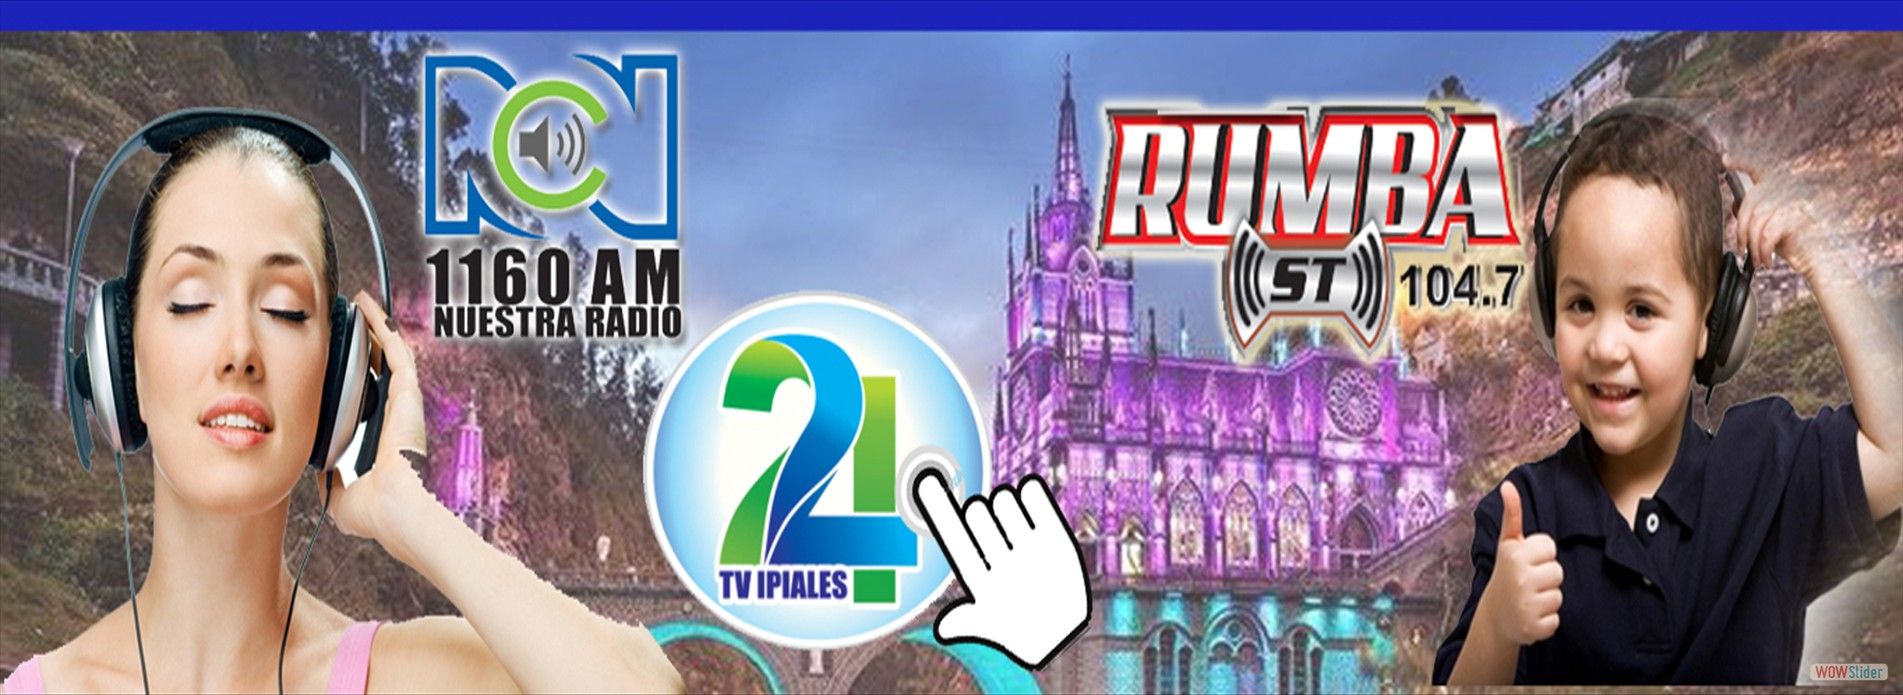
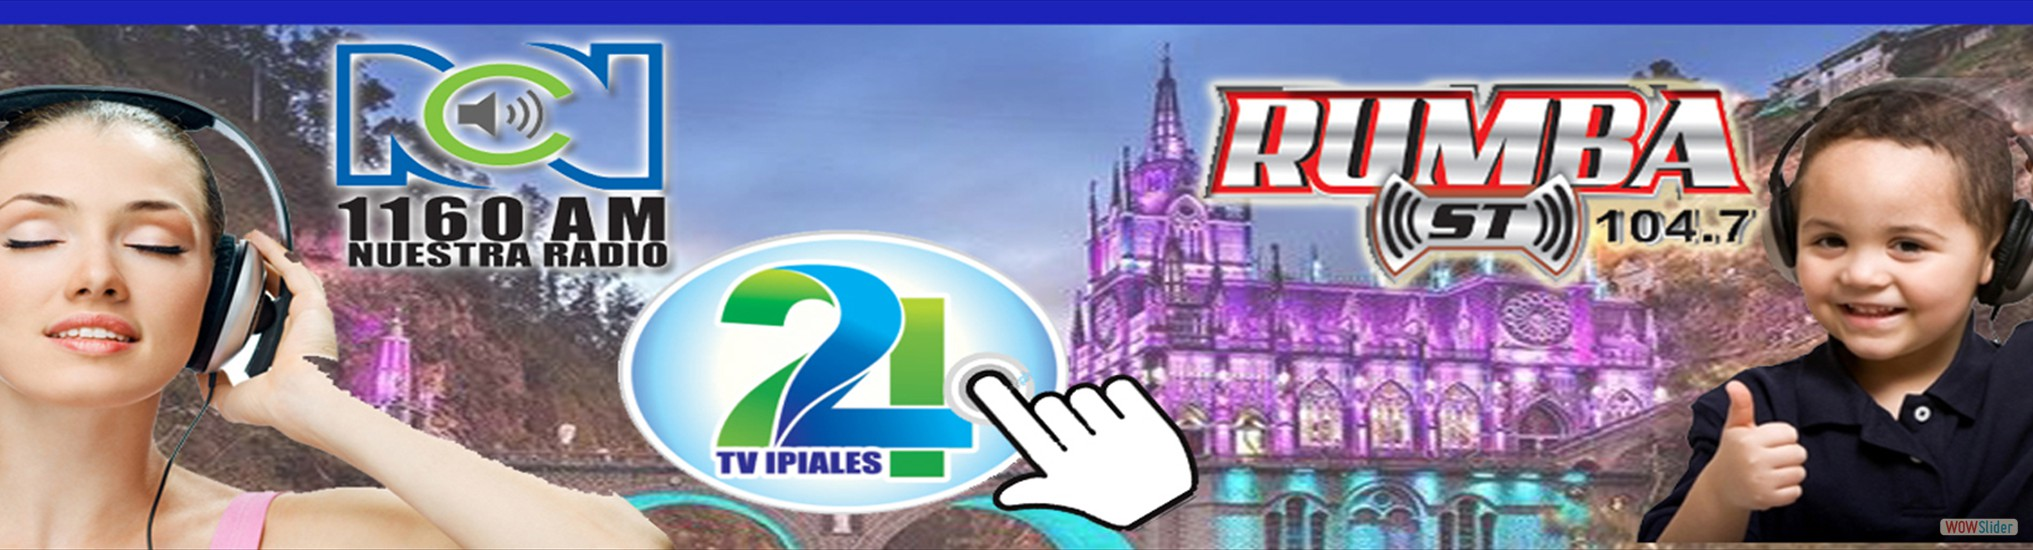
CARRUCEL

diff --git a/engine1/script.js b/engine1/script.js
@@ -8,6 +8,16 @@
 // Obfuscated by Javascript Obfuscator
 // http://javascript-source.com
 //***********************************************
+jQuery.extend(jQuery.easing,{easeInOutQuart:function(e,f,a,h,g){if((f/=g/2)<1){return h/2*f*f*f*f+a}return -h/2*((f-=2)*f*f*f-2)+a}});function ws_turn(d,a,b){var f=jQuery;var h=f(this);var c=f("li",b);var e=f(".ws_list",b);var g=f("<div>").addClass("ws_effect ws_turn").css({position:"absolute",top:0,left:0,width:"100%",height:"100%",overflow:"hidden",perspective:500}).appendTo(b);this.go=function(q,l){var s=b.height();var j=b.width();var k={left:["0% 50%",{rotateY:90,translate:[0,0,0.1]},{left:-j}],right:["100% 50%",{rotateY:-90,translate:[0,0,0.1]},{left:j}],up:["50% 0%",{rotateX:-90,translate:[0,0,0.1]},{top:-s}],down:["50% 100%",{rotateX:90,translate:[0,0,0.1]},{top:s}]}[d.direction||["left","right","down","up"][Math.floor(Math.random()*4)]];var i=f("<div>").css({position:"absolute",left:0,top:0,width:"100%",height:"100%",overflow:"hidden",transformOrigin:k[0],transformStyle:"preserve-3d",outline:"1px solid transparent",zIndex:5}).append(f(a.get(q)).clone()),r=f("<div>").css({position:"absolute",left:0,top:0,width:"100%",height:"100%",overflow:"hidden",background:"#000",zIndex:4}).append(f(a.get(l)).clone());g.css({perspectiveOrigin:k[0]});if(d.responsive<3){i.find("img").css("width","100%");r.find("img").css("width","100%")}r.appendTo(g);i.appendTo(g);e.stop(true,true).hide().css({left:-q+"00%"});var p=k[2];var o={top:0,left:0};var n={opacity:1};var m={opacity:0.2};if(d.support.transform){p=k[1];o={rotateX:0,rotateY:0,translate:[0,0,0]}}wowAnimate(i,p,o,d.duration,"easeInOutQuart",function(){h.trigger("effectEnd");i.remove();r.remove()});wowAnimate(r.find("img"),n,m,d.duration,"easeInOutQuart")}};// -----------------------------------------------------------------------------------
+// http://wowslider.com/
+// JavaScript Wow Slider is a free software that helps you easily generate delicious 
+// slideshows with gorgeous transition effects, in a few clicks without writing a single line of code.
+// Generated by WOW Slider 8.8
+//
+//***********************************************
+// Obfuscated by Javascript Obfuscator
+// http://javascript-source.com
+//***********************************************
 function ws_parallax(k,g,a){var c=jQuery;var f=c(this);var d=a.find(".ws_list");var b=k.parallax||0.25;var e=c("<div>").css({position:"absolute",top:0,left:0,width:"100%",height:"100%",overflow:"hidden"}).addClass("ws_effect ws_parallax").appendTo(a);function j(l){return Math.round(l*1000)/1000}var i=c("<div>").css({position:"absolute",left:0,top:0,overflow:"hidden",width:"100%",height:"100%",transform:"translate3d(0,0,0)"}).appendTo(e);var h=i.clone().appendTo(e);this.go=function(l,r,p){var s=c(g.get(r));s={width:s.width(),height:s.height(),marginTop:s.css("marginTop"),marginLeft:s.css("marginLeft")};p=p?1:-1;var n=c(g.get(r)).clone().css(s).appendTo(i);var o=c(g.get(l)).clone().css(s).appendTo(h);var m=a.width()||k.width;var q=a.height()||k.height;d.hide();wowAnimate(function(v){v=c.easing.swing(v);var x=j(p*v*m),u=j(p*(-m+v*m)),t=j(-p*m*b*v),w=j(p*m*b*(1-v));if(k.support.transform){i.css("transform","translate3d("+x+"px,0,0)");n.css("transform","translate3d("+t+"px,0,0)");h.css("transform","translate3d("+u+"px,0,0)");o.css("transform","translate3d("+w+"px,0,0)")}else{i.css("left",x);n.css("margin-left",t);h.css("left",u);o.css("margin-left",w)}},0,1,k.duration,function(){e.hide();n.remove();o.remove();f.trigger("effectEnd")})}};// -----------------------------------------------------------------------------------
 // http://wowslider.com/
 // JavaScript Wow Slider is a free software that helps you easily generate delicious 
@@ -18,7 +28,7 @@ function ws_parallax(k,g,a){var c=jQuery;var f=c(this);var d=a.find(".ws_list");
 // Obfuscated by Javascript Obfuscator
 // http://javascript-source.com
 //***********************************************
-function ws_slices(k,h,i){var b=jQuery;var f=b(this);function g(q,p,o,m,l,n){if(k.support.transform){if(p.top){p.translate=[0,p.top||0,0]}if(o.top){o.translate=[0,o.top||0,0]}delete p.top;delete o.top}wowAnimate(q,p,o,m,l,"swing",n)}var e=function(r,x){var q=b.extend({},{effect:"random",slices:15,animSpeed:500,pauseTime:3000,startSlide:0,container:null,onEffectEnd:0},x);var t={currentSlide:0,currentImage:"",totalSlides:0,randAnim:"",stop:false};var o=b(r);o.data("wow:vars",t);if(!/absolute|relative/.test(o.css("position"))){o.css("position","relative")}var m=x.container||o;var p=o.children();t.totalSlides=p.length;if(q.startSlide>0){if(q.startSlide>=t.totalSlides){q.startSlide=t.totalSlides-1}t.currentSlide=q.startSlide}if(b(p[t.currentSlide]).is("img")){t.currentImage=b(p[t.currentSlide])}else{t.currentImage=b(p[t.currentSlide]).find("img:first")}if(b(p[t.currentSlide]).is("a")){b(p[t.currentSlide]).css("display","block")}for(var s=0;s<q.slices;s++){var w=Math.round(m.width()/q.slices);var v=b('<div class="wow-slice"></div>').css({left:w*s+"px",overflow:"hidden",width:((s==q.slices-1)?(m.width()-(w*s)):w)+"px",position:"absolute"}).appendTo(m);b("<img>").css({position:"absolute",left:0,top:0,transform:"translate3d(0,0,0)"}).appendTo(v)}var n=0;this.sliderRun=function(y,z){if(t.busy){return false}q.effect=z||q.effect;t.currentSlide=y-1;u(o,p,q,false);return true};var l=function(){if(q.onEffectEnd){q.onEffectEnd(t.currentSlide)}m.hide();b(".wow-slice",m).css({transition:"",transform:""});t.busy=0};var u=function(y,z,C,E){var F=y.data("wow:vars");if((!F||F.stop)&&!E){return false}F.busy=1;F.currentSlide++;if(F.currentSlide==F.totalSlides){F.currentSlide=0}if(F.currentSlide<0){F.currentSlide=(F.totalSlides-1)}F.currentImage=b(z[F.currentSlide]);if(!F.currentImage.is("img")){F.currentImage=F.currentImage.find("img:first")}var A=b(h[F.currentSlide]);A={width:A.width(),heiht:A.height(),marginTop:A.css("marginTop"),marginLeft:A.css("marginLeft")};b(".wow-slice",m).each(function(J){var L=b(this),I=b("img",L);var K=Math.round(m.width()/C.slices);I.width(m.width());I.attr("src",F.currentImage.attr("src"));I.css({left:-K*J+"px"}).css(A);L.css({height:"100%",opacity:0,left:K*J,width:((J==C.slices-1)?(m.width()-(K*J)):K)})});m.show();if(C.effect=="random"){var G=new Array("sliceDownRight","sliceDownLeft","sliceUpRight","sliceUpLeft","sliceUpDownRight","sliceUpDownLeft","fold","fade");F.randAnim=G[Math.floor(Math.random()*(G.length+1))];if(F.randAnim==undefined){F.randAnim="fade"}}if(C.effect.indexOf(",")!=-1){var G=C.effect.split(",");F.randAnim=b.trim(G[Math.floor(Math.random()*G.length)])}if(C.effect=="sliceDown"||C.effect=="sliceDownRight"||F.randAnim=="sliceDownRight"||C.effect=="sliceDownLeft"||F.randAnim=="sliceDownLeft"){var B=0;var H=b(".wow-slice",m);if(C.effect=="sliceDownLeft"||F.randAnim=="sliceDownLeft"){H=H._reverse()}H.each(function(I){g(b(this),{top:"-100%",opacity:0},{top:"0%",opacity:1},C.animSpeed,100+B,(I==C.slices-1)?l:0);B+=50})}else{if(C.effect=="sliceUp"||C.effect=="sliceUpRight"||F.randAnim=="sliceUpRight"||C.effect=="sliceUpLeft"||F.randAnim=="sliceUpLeft"){var B=0;var H=b(".wow-slice",m);if(C.effect=="sliceUpLeft"||F.randAnim=="sliceUpLeft"){H=H._reverse()}H.each(function(I){g(b(this),{top:"100%",opacity:0},{top:"0%",opacity:1},C.animSpeed,100+B,(I==C.slices-1)?l:0);B+=50})}else{if(C.effect=="sliceUpDown"||C.effect=="sliceUpDownRight"||F.randAnim=="sliceUpDownRight"||C.effect=="sliceUpDownLeft"||F.randAnim=="sliceUpDownLeft"){var B=0;var H=b(".wow-slice",m);if(C.effect=="sliceUpDownLeft"||F.randAnim=="sliceUpDownLeft"){H=H._reverse()}H.each(function(I){g(b(this),{top:((I%2)?"-":"")+"100%",opacity:0},{top:"0%",opacity:1},C.animSpeed,100+B,(I==C.slices-1)?l:0);B+=50})}else{if(C.effect=="fold"||F.randAnim=="fold"){var B=0;var H=b(".wow-slice",m);var D=H.width();H.each(function(I){g(b(this),{width:0,opacity:0},{width:D,opacity:1},C.animSpeed,100+B,(I==C.slices-1)?l:0);B+=50})}else{if(C.effect=="fade"||F.randAnim=="fade"){var H=b(".wow-slice",m);b(".wow-slice",m).each(function(I){b(this).css("height","100%");b(this).animate({opacity:"1.0"},(C.animSpeed*2),(I==C.slices-1)?l:0)})}}}}}}};b.fn._reverse=[].reverse;var a=b("li",i);var c=b("ul",i);var d=b("<div>").addClass("ws_effect ws_slices").css({left:0,top:0,"z-index":8,overflow:"hidden",width:"100%",height:"100%",position:"absolute"}).appendTo(i);var j=new e(c,{keyboardNav:false,caption:0,effect:"sliceDownRight,sliceDownLeft,sliceUpRight,sliceUpLeft,sliceUpDownRight,sliceUpDownLeft,sliceUpDownRight,sliceUpDownLeft,fold,fold,fold",animSpeed:k.duration,startSlide:k.startSlide,container:d,onEffectEnd:function(l){f.trigger("effectEnd")}});this.go=function(m,l){var n=j.sliderRun(m);if(k.fadeOut){c.fadeOut(k.duration)}}};// -----------------------------------------------------------------------------------
+function ws_blur(r,p,c){var h=jQuery;var o=h(this);var n=h("<div>").addClass("ws_effect ws_blur").css({position:"absolute",overflow:"hidden",top:0,left:0,width:"100%",height:"100%"}).appendTo(c);var b=!r.noCanvas&&!window.opera&&!!document.createElement("canvas").getContext;if(b){try{document.createElement("canvas").getContext("2d").getImageData(0,0,1,1)}catch(m){b=0}}var d;function k(s,e,t){wowAnimate(s.css({visibility:"visible"}),{opacity:0},{opacity:1},e,t)}function i(s,e,t){wowAnimate(s,{opacity:1},{opacity:0},e,t)}var l;this.go=function(e,s){if(l){return -1}l=1;var w=h(p.get(s)),u=h(p.get(e)),x={width:w.width(),height:w.height(),marginTop:w.css("marginTop"),marginLeft:w.css("marginLeft")};var v;if(b){if(!d){d='<canvas width="'+x.width+'" height="'+x.height+'"/>';d=h(d+d).css({"z-index":8,position:"absolute",left:0,top:0,visibility:"hidden"}).appendTo(n)}d.css(x).attr({width:x.width,height:x.height});v=g(w,x,30,d.get(0))}if(b&&v){var t=g(u,x,30,d.get(1));k(v,r.duration/3,function(){c.find(".ws_list").css({visibility:"hidden"});i(v,r.duration/6);k(t,r.duration/6,function(){v.css({visibility:"hidden"});c.find(".ws_list").css({visibility:"visible"});o.trigger("effectEnd",{delay:r.duration/2});i(t,r.duration/2,function(){l=0})})})}else{b=0;v=g(w,x,8);v.fadeIn(r.duration/3,"linear",function(){o.trigger("effectEnd",{delay:r.duration/3});v.fadeOut(r.duration/3,"linear",function(){v.remove();l=0})})}};function g(z,v,w,s){var C=(parseInt(z.parent().css("z-index"))||0)+1;if(b){var F=s.getContext("2d");F.drawImage(z.get(0),0,0,v.width,v.height);if(!j(F,0,0,s.width,s.height,w)){return 0}return h(s)}var G=h("<div></div>").css({position:"absolute","z-index":C,left:0,top:0,display:"none"}).css(v).appendTo(n);var E=(Math.sqrt(5)+1)/2;var t=1-E/2;for(var u=0;t*u<w;u++){var A=Math.PI*E*u;var e=(t*u+1);var D=e*Math.cos(A);var B=e*Math.sin(A);h(document.createElement("img")).attr("src",z.attr("src")).css({opacity:1/(u/1.8+1),position:"absolute","z-index":C,left:Math.round(D)+"px",top:Math.round(B)+"px",width:"100%",height:"100%"}).appendTo(G)}return G}var q=[512,512,456,512,328,456,335,512,405,328,271,456,388,335,292,512,454,405,364,328,298,271,496,456,420,388,360,335,312,292,273,512,482,454,428,405,383,364,345,328,312,298,284,271,259,496,475,456,437,420,404,388,374,360,347,335,323,312,302,292,282,273,265,512,497,482,468,454,441,428,417,405,394,383,373,364,354,345,337,328,320,312,305,298,291,284,278,271,265,259,507,496,485,475,465,456,446,437,428,420,412,404,396,388,381,374,367,360,354,347,341,335,329,323,318,312,307,302,297,292,287,282,278,273,269,265,261,512,505,497,489,482,475,468,461,454,447,441,435,428,422,417,411,405,399,394,389,383,378,373,368,364,359,354,350,345,341,337,332,328,324,320,316,312,309,305,301,298,294,291,287,284,281,278,274,271,268,265,262,259,257,507,501,496,491,485,480,475,470,465,460,456,451,446,442,437,433,428,424,420,416,412,408,404,400,396,392,388,385,381,377,374,370,367,363,360,357,354,350,347,344,341,338,335,332,329,326,323,320,318,315,312,310,307,304,302,299,297,294,292,289,287,285,282,280,278,275,273,271,269,267,265,263,261,259];var a=[9,11,12,13,13,14,14,15,15,15,15,16,16,16,16,17,17,17,17,17,17,17,18,18,18,18,18,18,18,18,18,19,19,19,19,19,19,19,19,19,19,19,19,19,19,20,20,20,20,20,20,20,20,20,20,20,20,20,20,20,20,20,20,21,21,21,21,21,21,21,21,21,21,21,21,21,21,21,21,21,21,21,21,21,21,21,21,21,21,21,22,22,22,22,22,22,22,22,22,22,22,22,22,22,22,22,22,22,22,22,22,22,22,22,22,22,22,22,22,22,22,22,22,22,22,22,22,23,23,23,23,23,23,23,23,23,23,23,23,23,23,23,23,23,23,23,23,23,23,23,23,23,23,23,23,23,23,23,23,23,23,23,23,23,23,23,23,23,23,23,23,23,23,23,23,23,23,23,23,23,23,24,24,24,24,24,24,24,24,24,24,24,24,24,24,24,24,24,24,24,24,24,24,24,24,24,24,24,24,24,24,24,24,24,24,24,24,24,24,24,24,24,24,24,24,24,24,24,24,24,24,24,24,24,24,24,24,24,24,24,24,24,24,24,24,24,24,24,24,24,24,24,24,24,24];function j(aj,R,P,s,t,aa){if(isNaN(aa)||aa<1){return}aa|=0;var ae;try{ae=aj.getImageData(R,P,s,t)}catch(ai){console.log("error:unable to access image data: "+ai);return false}var z=ae.data;var Y,X,ag,ad,G,J,D,v,w,O,E,Q,M,U,Z,H,C,I,K,T;var ah=aa+aa+1;var V=s<<2;var F=s-1;var ac=t-1;var B=aa+1;var ab=B*(B+1)/2;var S=new f();var N=S;for(ag=1;ag<ah;ag++){N=N.next=new f();if(ag==B){var A=N}}N.next=S;var af=null;var W=null;D=J=0;var L=q[aa];var u=a[aa];for(X=0;X<t;X++){U=Z=H=v=w=O=0;E=B*(C=z[J]);Q=B*(I=z[J+1]);M=B*(K=z[J+2]);v+=ab*C;w+=ab*I;O+=ab*K;N=S;for(ag=0;ag<B;ag++){N.r=C;N.g=I;N.b=K;N=N.next}for(ag=1;ag<B;ag++){ad=J+((F<ag?F:ag)<<2);v+=(N.r=(C=z[ad]))*(T=B-ag);w+=(N.g=(I=z[ad+1]))*T;O+=(N.b=(K=z[ad+2]))*T;U+=C;Z+=I;H+=K;N=N.next}af=S;W=A;for(Y=0;Y<s;Y++){z[J]=(v*L)>>u;z[J+1]=(w*L)>>u;z[J+2]=(O*L)>>u;v-=E;w-=Q;O-=M;E-=af.r;Q-=af.g;M-=af.b;ad=(D+((ad=Y+aa+1)<F?ad:F))<<2;U+=(af.r=z[ad]);Z+=(af.g=z[ad+1]);H+=(af.b=z[ad+2]);v+=U;w+=Z;O+=H;af=af.next;E+=(C=W.r);Q+=(I=W.g);M+=(K=W.b);U-=C;Z-=I;H-=K;W=W.next;J+=4}D+=s}for(Y=0;Y<s;Y++){Z=H=U=w=O=v=0;J=Y<<2;E=B*(C=z[J]);Q=B*(I=z[J+1]);M=B*(K=z[J+2]);v+=ab*C;w+=ab*I;O+=ab*K;N=S;for(ag=0;ag<B;ag++){N.r=C;N.g=I;N.b=K;N=N.next}G=s;for(ag=1;ag<=aa;ag++){J=(G+Y)<<2;v+=(N.r=(C=z[J]))*(T=B-ag);w+=(N.g=(I=z[J+1]))*T;O+=(N.b=(K=z[J+2]))*T;U+=C;Z+=I;H+=K;N=N.next;if(ag<ac){G+=s}}J=Y;af=S;W=A;for(X=0;X<t;X++){ad=J<<2;z[ad]=(v*L)>>u;z[ad+1]=(w*L)>>u;z[ad+2]=(O*L)>>u;v-=E;w-=Q;O-=M;E-=af.r;Q-=af.g;M-=af.b;ad=(Y+(((ad=X+B)<ac?ad:ac)*s))<<2;v+=(U+=(af.r=z[ad]));w+=(Z+=(af.g=z[ad+1]));O+=(H+=(af.b=z[ad+2]));af=af.next;E+=(C=W.r);Q+=(I=W.g);M+=(K=W.b);U-=C;Z-=I;H-=K;W=W.next;J+=s}}aj.putImageData(ae,R,P);return true}function f(){this.r=0;this.g=0;this.b=0;this.a=0;this.next=null}};// -----------------------------------------------------------------------------------
 // http://wowslider.com/
 // JavaScript Wow Slider is a free software that helps you easily generate delicious 
 // slideshows with gorgeous transition effects, in a few clicks without writing a single line of code.
@@ -28,14 +38,4 @@ function ws_slices(k,h,i){var b=jQuery;var f=b(this);function g(q,p,o,m,l,n){if(
 // Obfuscated by Javascript Obfuscator
 // http://javascript-source.com
 //***********************************************
-function ws_fly(c,a,b){var e=jQuery;var f=e(this);var h={position:"absolute",left:0,top:0,width:"100%",height:"100%",transform:"translate3d(0,0,0)"};var d=b.find(".ws_list");var g=e("<div>").addClass("ws_effect ws_fly").css(h).css({overflow:"visible"}).appendTo(b);this.go=function(p,m,l){if(l==undefined){l=!!c.revers}else{l=!l}var k=-(c.distance||g.width()/4),n=Math.min(-k,Math.max(0,e(window).width()-g.offset().left-g.width())),i=(l?n:k),q=(l?k:n);var j=e(a.get(m));j={width:j.width(),height:j.height()};var r=e("<div>").css(h).css({"z-index":1,overflow:"hidden"}).html(e(a.get(m)).clone().css(j)).appendTo(g);var o=e("<div>").css(h).css({"z-index":3,overflow:"hidden"}).html(e(a.get(p)).clone().css(j)).appendTo(g).show();wowAnimate(o,{opacity:0},{opacity:1},c.duration);wowAnimate(o,{left:i},{left:0},2*c.duration/3);d.hide();wowAnimate(r,{left:0,opacity:1},{left:q,opacity:0},2*c.duration/3,c.duration/3,function(){r.remove();f.trigger("effectEnd");o.remove()})}};// -----------------------------------------------------------------------------------
-// http://wowslider.com/
-// JavaScript Wow Slider is a free software that helps you easily generate delicious 
-// slideshows with gorgeous transition effects, in a few clicks without writing a single line of code.
-// Generated by WOW Slider 8.8
-//
-//***********************************************
-// Obfuscated by Javascript Obfuscator
-// http://javascript-source.com
-//***********************************************
-jQuery("#wowslider-container1").wowSlider({effect:"parallax,slices,fly",prev:"",next:"",duration:20*100,delay:5*100,width:1903,height:695,autoPlay:true,autoPlayVideo:false,playPause:true,stopOnHover:false,loop:false,bullets:1,caption:true,captionEffect:"parallax",controls:true,controlsThumb:false,responsive:1,fullScreen:false,gestures:2,onBeforeStep:0,images:0});
+jQuery("#wowslider-container1").wowSlider({effect:"turn,parallax,blur",prev:"",next:"",duration:20*100,delay:20*100,width:2033,height:550,autoPlay:true,autoPlayVideo:false,playPause:true,stopOnHover:false,loop:false,bullets:1,caption:true,captionEffect:"parallax",controls:true,controlsThumb:false,responsive:1,fullScreen:false,gestures:2,onBeforeStep:0,images:0});

diff --git a/engine1/style.css b/engine1/style.css
@@ -21,8 +21,8 @@
 	zoom: 1; 
 	position: relative;
 	width: 100%;
-	max-width: 1903px;
-	max-height:695px;
+	max-width: 2033px;
+	max-height:550px;
 	margin:0px auto 0px;
 	z-index:90;
 	text-align:left; /* reset align=center */
@@ -34,7 +34,7 @@
 	-moz-box-sizing: content-box;
 	box-sizing: content-box; 
 }
-* html #wowslider-container1{ width:1903px }
+* html #wowslider-container1{ width:2033px }
 #wowslider-container1 .ws_images ul{
 	position:relative;
 	width: 10000%; 
@@ -64,8 +64,8 @@
 	left:0;
 	top:0;
 	height:100%;
-	max-height:695px;
-	max-width: 1903px;
+	max-height:550px;
+	max-width: 2033px;
 	vertical-align: top;
 	border:none;
 	overflow: hidden;
@@ -73,7 +73,7 @@
 #wowslider-container1 .ws_images ul a{
 	width:100%;
 	height:100%;
-	max-height:695px;
+	max-height:550px;
 	display:block;
 	color:transparent;
 }
@@ -89,7 +89,7 @@
 	margin:0;
 }
 #wowslider-container1 .ws_images > div > img {
-	max-height:695px;
+	max-height:550px;
 }
 
 #wowslider-container1 .ws_images iframe {
@@ -395,20 +395,20 @@
 	text-transform: uppercase;	
 	font-size: 2em;
 }#wowslider-container1 .ws_images > ul{
-	animation: wsBasic 7.5s infinite;
-	-moz-animation: wsBasic 7.5s infinite;
-	-webkit-animation: wsBasic 7.5s infinite;
+	animation: wsBasic 12s infinite;
+	-moz-animation: wsBasic 12s infinite;
+	-webkit-animation: wsBasic 12s infinite;
 }
-@keyframes wsBasic{0%{left:-0%} 6.67%{left:-0%} 33.33%{left:-100%} 40%{left:-100%} 66.67%{left:-200%} 73.33%{left:-200%} }
-@-moz-keyframes wsBasic{0%{left:-0%} 6.67%{left:-0%} 33.33%{left:-100%} 40%{left:-100%} 66.67%{left:-200%} 73.33%{left:-200%} }
-@-webkit-keyframes wsBasic{0%{left:-0%} 6.67%{left:-0%} 33.33%{left:-100%} 40%{left:-100%} 66.67%{left:-200%} 73.33%{left:-200%} }
+@keyframes wsBasic{0%{left:-0%} 16.67%{left:-0%} 33.33%{left:-100%} 50%{left:-100%} 66.67%{left:-200%} 83.33%{left:-200%} }
+@-moz-keyframes wsBasic{0%{left:-0%} 16.67%{left:-0%} 33.33%{left:-100%} 50%{left:-100%} 66.67%{left:-200%} 83.33%{left:-200%} }
+@-webkit-keyframes wsBasic{0%{left:-0%} 16.67%{left:-0%} 33.33%{left:-100%} 50%{left:-100%} 66.67%{left:-200%} 83.33%{left:-200%} }
 
 #wowslider-container1 .ws_bullets  a img{
 	position:absolute;
 	display:block;
 	text-indent:0;
 	bottom:15px;
-	left:-66px;
+	left:-89px;
 	visibility:hidden;
 	max-width:none;
 }
@@ -425,7 +425,7 @@
 	left:0;
 	overflow:hidden;
 	position:relative;
-	width:131px;
+	width:177px;
 }
 #wowslider-container1  .ws_bullets .ws_bulframe{
 	position:absolute;

diff --git a/css/style.css b/css/style.css
@@ -35,7 +35,7 @@ h1, h2, h3, h4,h5{
 }
 #imgBanner{
  	width: 100% !important;
-     height:73vh  !important;
+     height:70vh  !important;
     border-radius: 0 !important;
 }
 .imgNovedad{
@@ -171,7 +171,7 @@ body{
     }
     #imgBanner{
         width: 100% !important;
-        height: auto; 
+        height: auto  !important; 
     }
     .colimgNavDer{
         display: none;

diff --git a/index.php b/index.php
@@ -88,17 +88,17 @@
     <!-- Start WOWSlider.com BODY section --> <!-- add to the <body> of your page -->
     <header id="home" class=" slide">
 
-<<div id="wowslider-container1">
+<div id="wowslider-container1">
 <div class="ws_images"><ul>
     <li><img src="data1/images/lajitas.jpg" alt="" title="" id="wows1_0"/></li>
-    <li><a href="http://www.rcnipiales.com.co/"><img src="data1/images/medioss.jpg" alt="" title="" id="wows1_1"/></a></li>
+    <li><a href="http://wowslider.net"><img src="data1/images/medioss.jpg" alt="slider html" title="" id="wows1_1"/></a></li>
     <li><img src="data1/images/pagina.jpg" alt="" title="" id="wows1_2"/></li>
   </ul></div>
   <div class="ws_bullets"><div>
     <a href="#" title=""><span><img src="data1/tooltips/lajitas.jpg" alt=""/>1</span></a>
     <a href="#" title=""><span><img src="data1/tooltips/medioss.jpg" alt=""/>2</span></a>
     <a href="#" title=""><span><img src="data1/tooltips/pagina.jpg" alt=""/>3</span></a>
-  </div></div><div class="ws_script" style="position:absolute;left:-99%"><a href="http://wowslider.net">bootstrap slideshow</a> by WOWSlider.com v8.8</div>
+  </div></div><div class="ws_script" style="position:absolute;left:-99%"><a href="http://wowslider.net">bootstrap image slider</a> by WOWSlider.com v8.8</div>
 <div class="ws_shadow"></div>
 
       <div class="intro-scroller">
